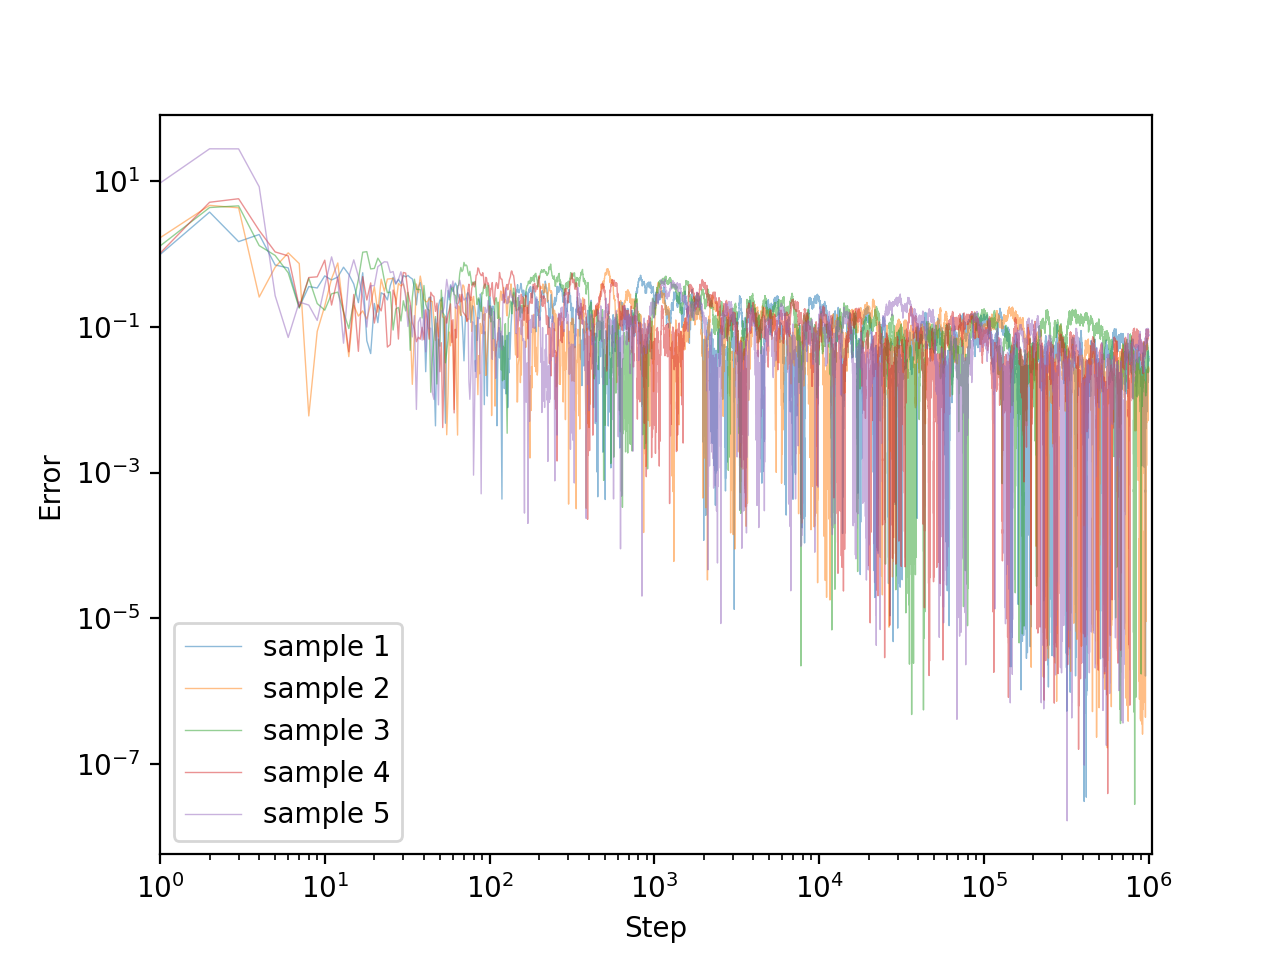
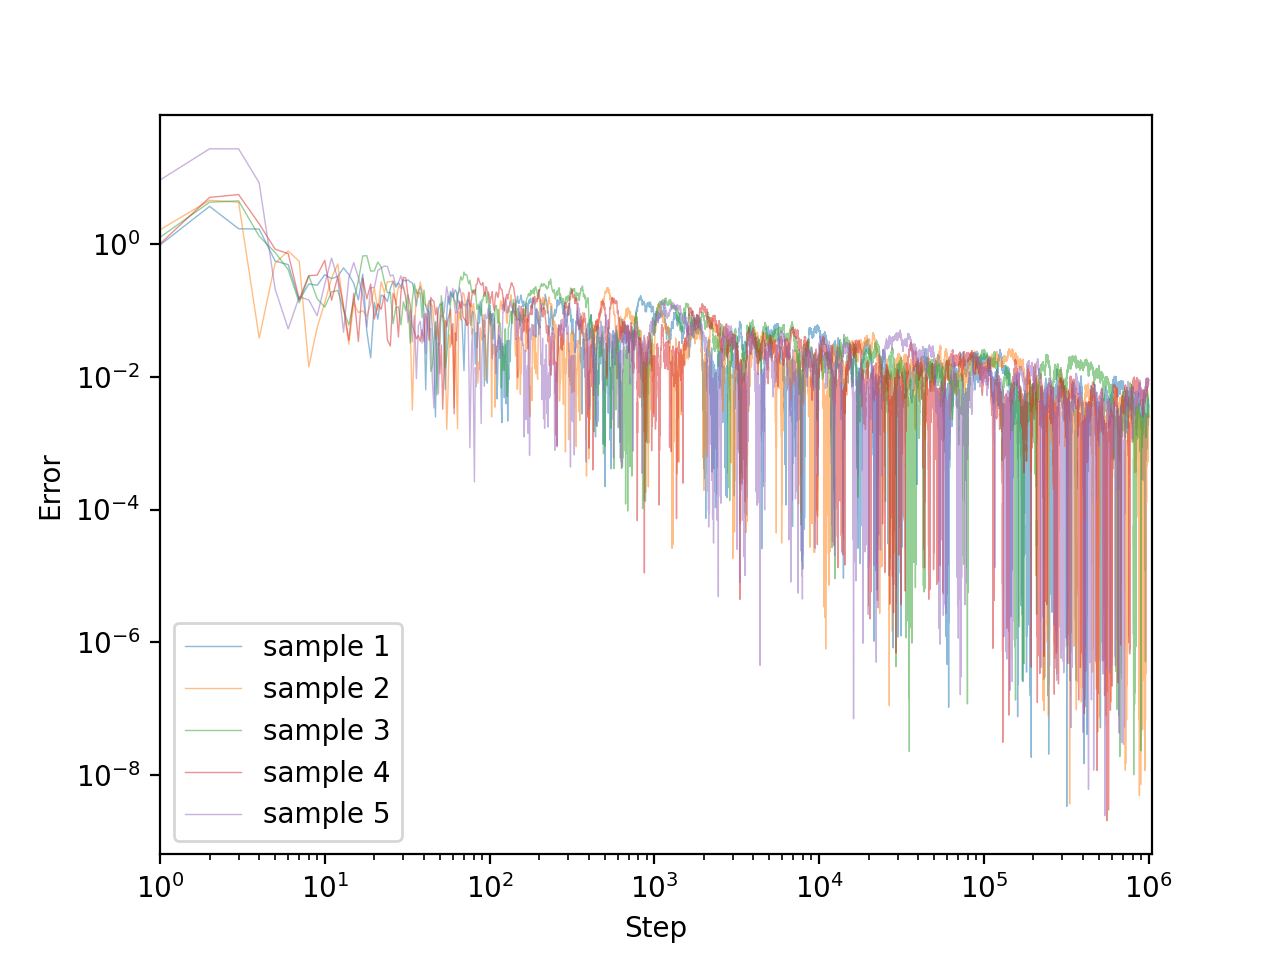
change default exponent of c_n for KW

diff --git a/kiefer-wolfowitz/run.py b/kiefer-wolfowitz/run.py
@@ -52,8 +52,8 @@ def parse_args():
                         help='Exponent in the step size a_n (Default: 1.0)')
     parser.add_argument('-C', '--step-coef-c', type=float, default=1.0,
                         help='Coefficient in the step size c_n (Default: 1.0)')
-    parser.add_argument('-P', '--step-power-c', type=float, default=1/3,
-                        help='Exponent in the step size c_n (Default: 1/3)')
+    parser.add_argument('-P', '--step-power-c', type=float, default=1/6,
+                        help='Exponent in the step size c_n (Default: 1/6)')
     parser.add_argument('-s', '--seed', type=int, default=42,
                         help='Seed of RNG (Default: 42)')
     return parser.parse_args()

diff --git a/kiefer-wolfowitz/README.md b/kiefer-wolfowitz/README.md
@@ -54,7 +54,7 @@ Set $M(x)=-|x|$ and $Y(x)=\mathcal{N}(M(x),1)$ (the normal distribution of mean 
 
 The maximizer of $M$ is $\theta=0$. $x_1$ is sampled from $[-10,10]$ uniformly.
 
-### Experiment 1. $a_n=1/n$ and $c_n=1/\sqrt[3]{n}$
+### Experiment 1. $a_n=1/n$ and $c_n=1/\sqrt[6]{n}$
 All assumptions are satisfied.
 
 $5$ sample paths until $n=10^6$ are plotted. Here, the $x$-axis represents $n$ and the $y$-axis represents $|x_n-\theta|$.
@@ -71,7 +71,6 @@ python ../plot.py outputs/0.csv outputs/1.csv outputs/2.csv outputs/3.csv output
 
 Looks good.
 All sample paths appear to converge to $\theta$.
-The speed of convergence is not so fast though.
 
 ### Experiment 2. $a_n=1/n$ and $c_n=0.01$
 One of the assumption $\displaystyle\lim_{n\to\infty}c_n = 0$ does not hold.
@@ -119,9 +118,9 @@ python ../plot.py outputs/0.csv outputs/1.csv outputs/2.csv outputs/3.csv output
     <img src="../resource/8.png" width="50%">
 </div>
 
-Each sample path appear not to converge. The variance of $x_n$ is very large.
+All sample paths appear not to converge. The variance of $x_n$ is very large.
 
-### Experiment 5. $M(x)=-x^2$, $a_n=1/n$, and $c_n=1/\sqrt[3]{n}$
+### Experiment 5. $M(x)=-x^2$, $a_n=1/n$, and $c_n=1/\sqrt[6]{n}$
 All assumptions are satisfied.
 
 ```bash
@@ -139,7 +138,7 @@ python ../plot.py outputs/0.csv outputs/1.csv outputs/2.csv outputs/3.csv output
 
 Looks good.
 
-### Experiment 5. $M(x)=-|x|^3$, $a_n=1/n$, and $c_n=1/\sqrt[3]{n}$
+### Experiment 6. $M(x)=-|x|^3$, $a_n=1/n$, and $c_n=1/\sqrt[6]{n}$
 Assumption 2 does not hold.
 
 ```bash
@@ -158,7 +157,7 @@ python ../plot.py outputs/0.csv outputs/1.csv outputs/2.csv outputs/3.csv output
 All sample paths diverged.
 Constant $x_n$ values after some moment are caused by catastrophic cancellations. Actually, $y_{2n} = y_{2n-1}$ occured in the sense of double precision.
 
-### Experiment 6. $M(x)=-|x|+2\cos x$, $a_n=1/n$, and $c_n=1/\sqrt[3]{n}$
+### Experiment 7. $M(x)=-|x|+2\cos x$, $a_n=1/n$, and $c_n=1/\sqrt[6]{n}$
 Assumption 3 does not hold.
 In fact, $M(x)$ has local maximums as shown in the following graph.
 <div align="center">
